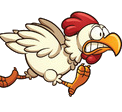
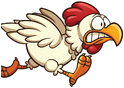
Resized sprite images to save on game space. This updated most sprite files. Working on ground bounce of player. Platform behavior isn't doing it.

diff --git a/Files/readme.md b/Files/readme.md
@@ -2,10 +2,19 @@
 Spoof on the old flash game, Kitten Canon.
 
 
+## Notes:    
+Try using the bullet behavior for the player and keep the X value at 0 after initial launch
 
 
 
 
 ## Asset list
-Background image: https://es.123rf.com/photo_59737992_stock-vector-forest-game-background-2d-game-application-vector-design-tileable-horizontally-size-1024x512-ready-f.html
+Background image:    
+https://es.123rf.com/photo_59737992_stock-vector-forest-game-background-2d-game-application-vector-design-tileable-horizontally-size-1024x512-ready-f.html
+
+The Chicken:
+https://i.pinimg.com/originals/b5/c5/be/b5c5be5ef7b46b84a8eb2efe7b2d9901.jpg
+
+Explosion:    
+https://www.gamedevmarket.net/media/get/c_2c47b6135cee13949c6246b645454d1e151bcdfd.jpg/
 
